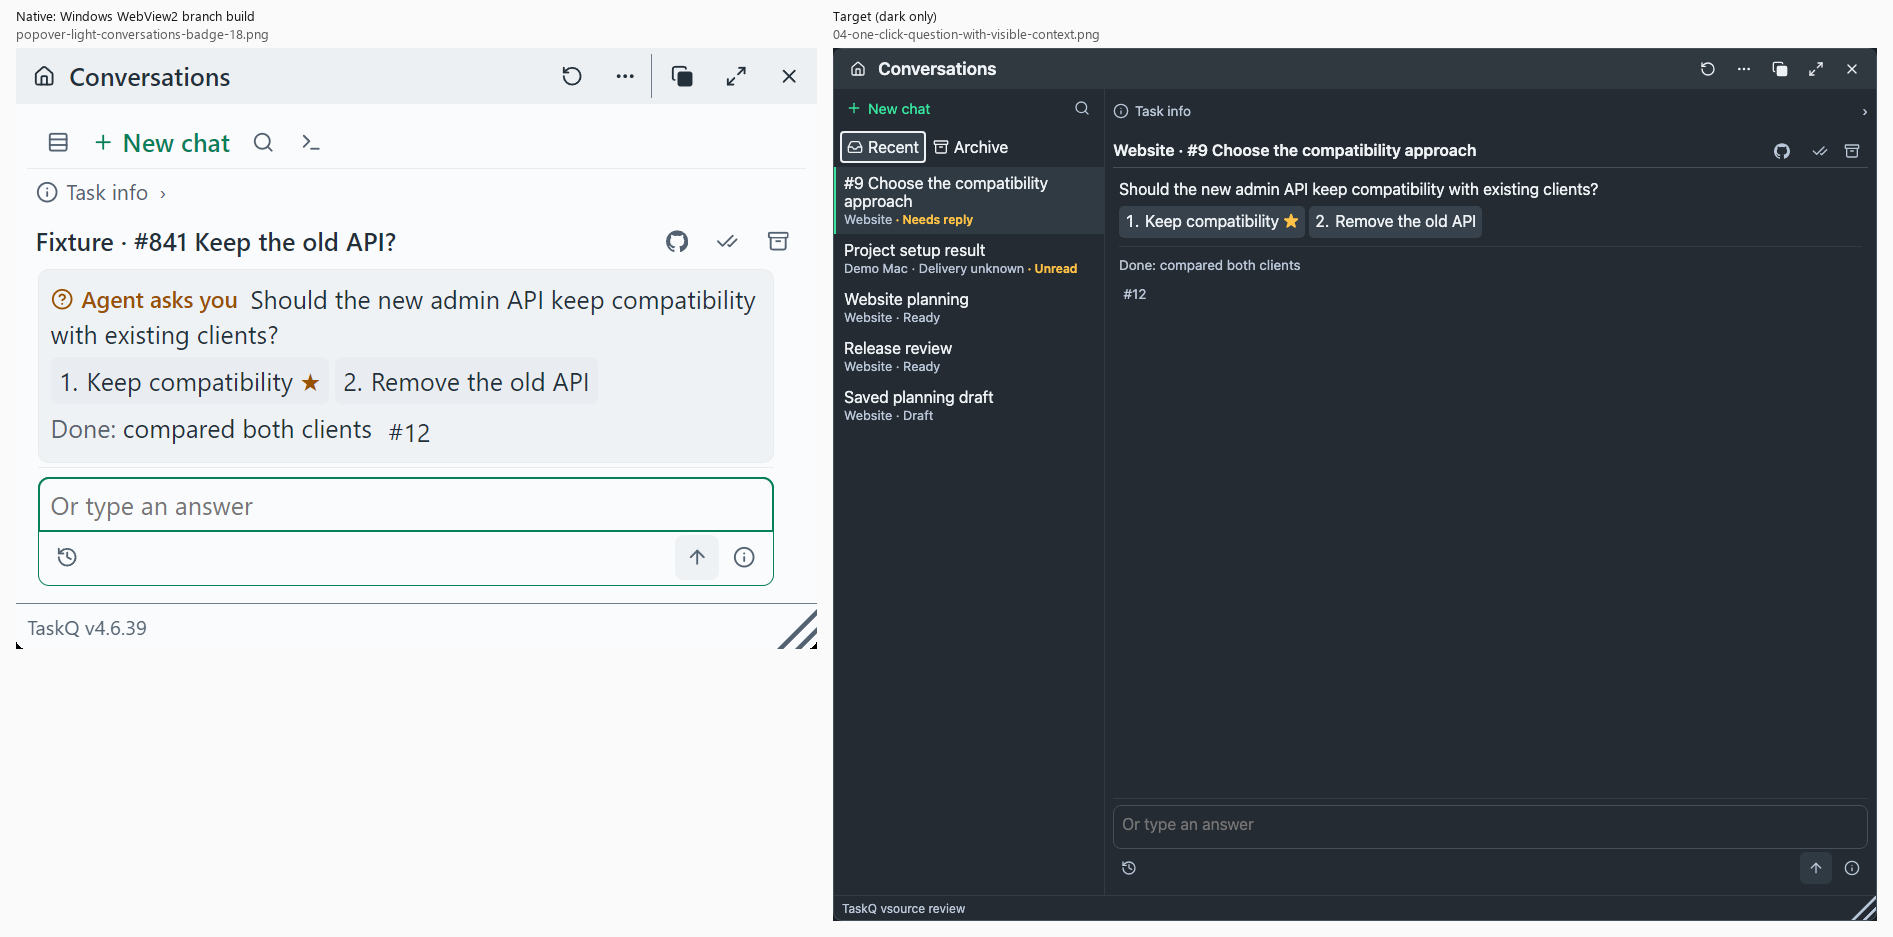
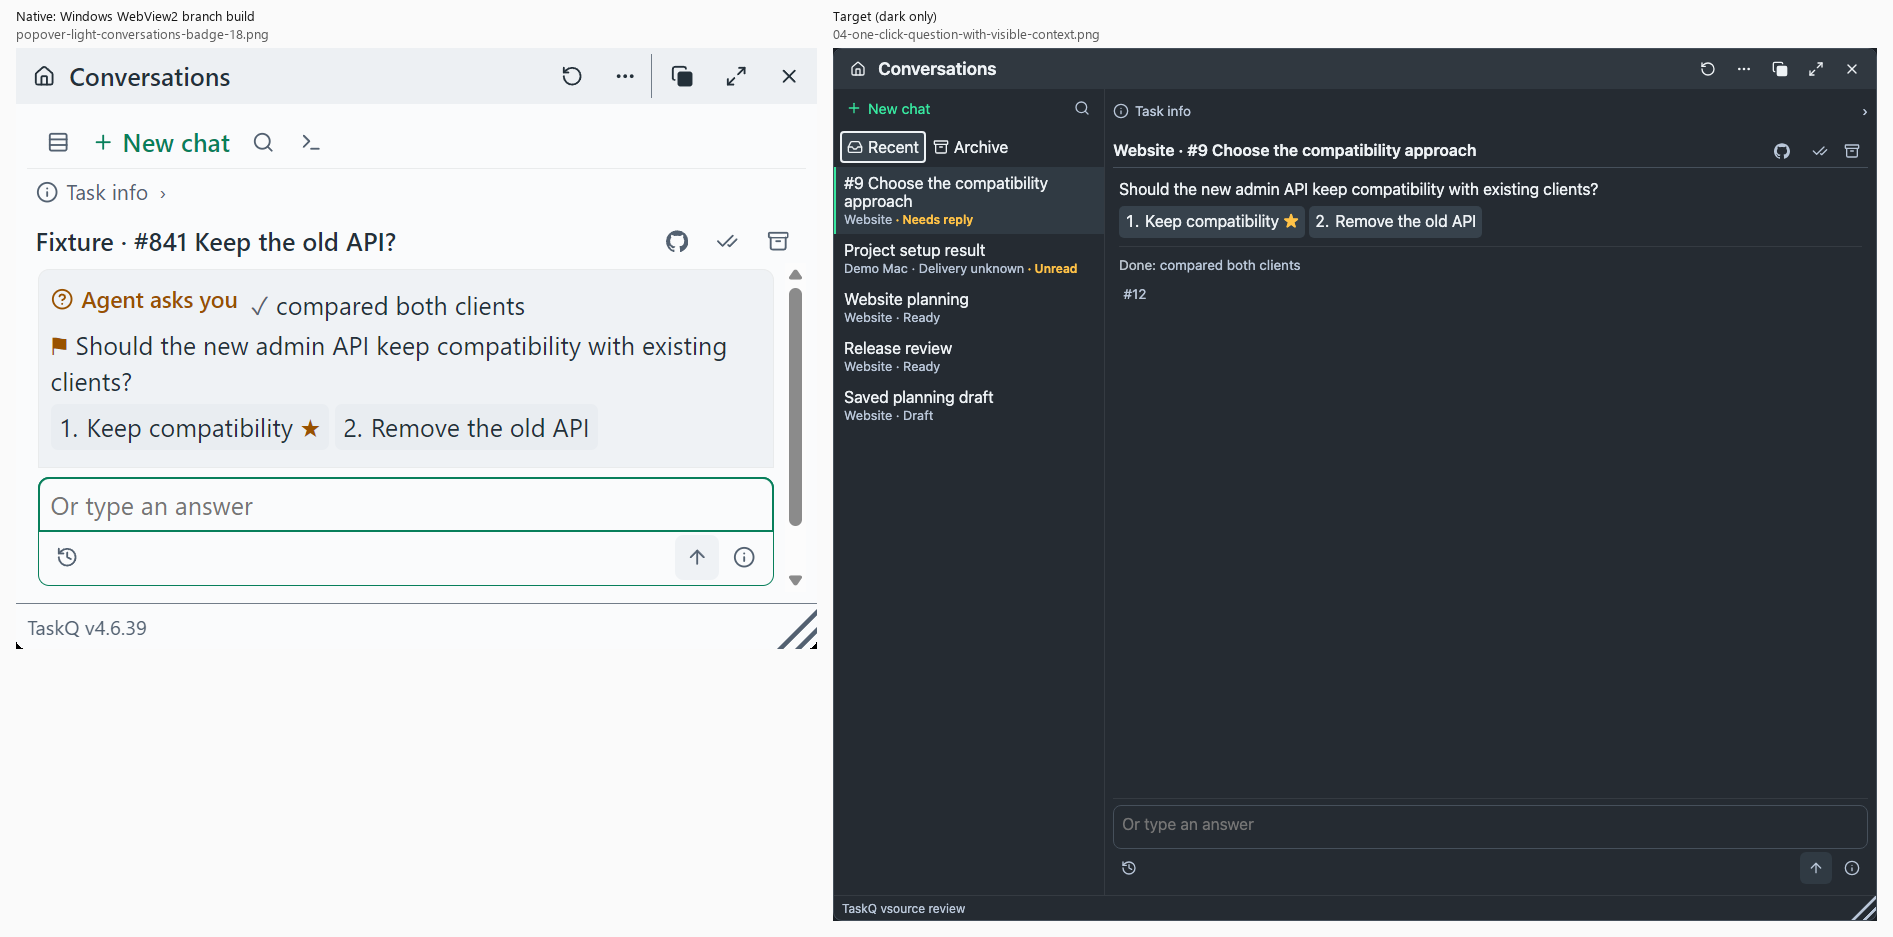
docs: retake question pairs on the merged #1787 answer card
Task: https://github.com/taskqorg/taskq/issues/1781

Claude-Session: https://claude.ai/code/session_017XK7FVy4PU7CXppqdXFJ3z

Changed region(s): [[0.0312, 0.3095, 0.4363, 0.5571]]

diff --git a/docs/design/native-audit-1781.md b/docs/design/native-audit-1781.md
@@ -27,7 +27,7 @@ Evidence: [native-1781-2026-10-29](review-evidence/native-1781-2026-10-29/) (nat
 | Item | Target | Native | Fix |
 |---|---|---|---|
 | G1 Ask row state icon is an amber question glyph that opens the question in one click | 04 | Pass (`01`, `02`) | `3c86d8d2` |
-| G2 Question context (task title, why asked, Done and evidence) stays visible with the question | 04 | Pass (`05`, `06`): the thread title names the task, the card shows state, question, options and Done with evidence above the composer, no scrolling | `3c86d8d2`, this change |
+| G2 Question context (task title, why asked, Done and evidence) stays visible with the question | 04 | Pass (`05`, `06`): the thread title names the task; state, Done, the question and its options sit above the composer with no scrolling; the #1787 Evidence disclosure follows them | `3c86d8d2`, this change |
 | G3 Task metadata disclosure reads `Task info` with the info icon | 04, 05 | Pass (`03`, `05`) | `3c86d8d2` |
 | G4 Detail controls are icon buttons; the board link is the provider icon (`Close #n on the board`) | 05 | Pass (`03`, `04`) | `3df8081d` |
 | G5 Question details are one neutral card with an amber edge and title; the Open question icon is amber | 05 | Pass (`03`, `04`) | this change |
@@ -43,6 +43,6 @@ Evidence: [native-1781-2026-10-29](review-evidence/native-1781-2026-10-29/) (nat
 | Host chips read three letters (longer on a shared prefix), the full name in the tooltip | 07 | Pass (`01`, `02`) | this change (restores #1729 after #1775) |
 | Filter chips, task row state icons, Settings | 07–09 | Pass in #1775 installed pass; unchanged here | none |
 
-Kept: the `Agent asks you` journey card (approved in #1773); its state now leads the question line and the number and title move to its accessible name, as the thread title above shows them.
+Kept: the `Agent asks you` journey card (approved in #1773); its state now leads the Done line (#1787 card order) and the number and title move to its accessible name, as the thread title above shows them.
 
 The #1775 `10-question-dark` mismatch was G1, G2, G7 and G8.
